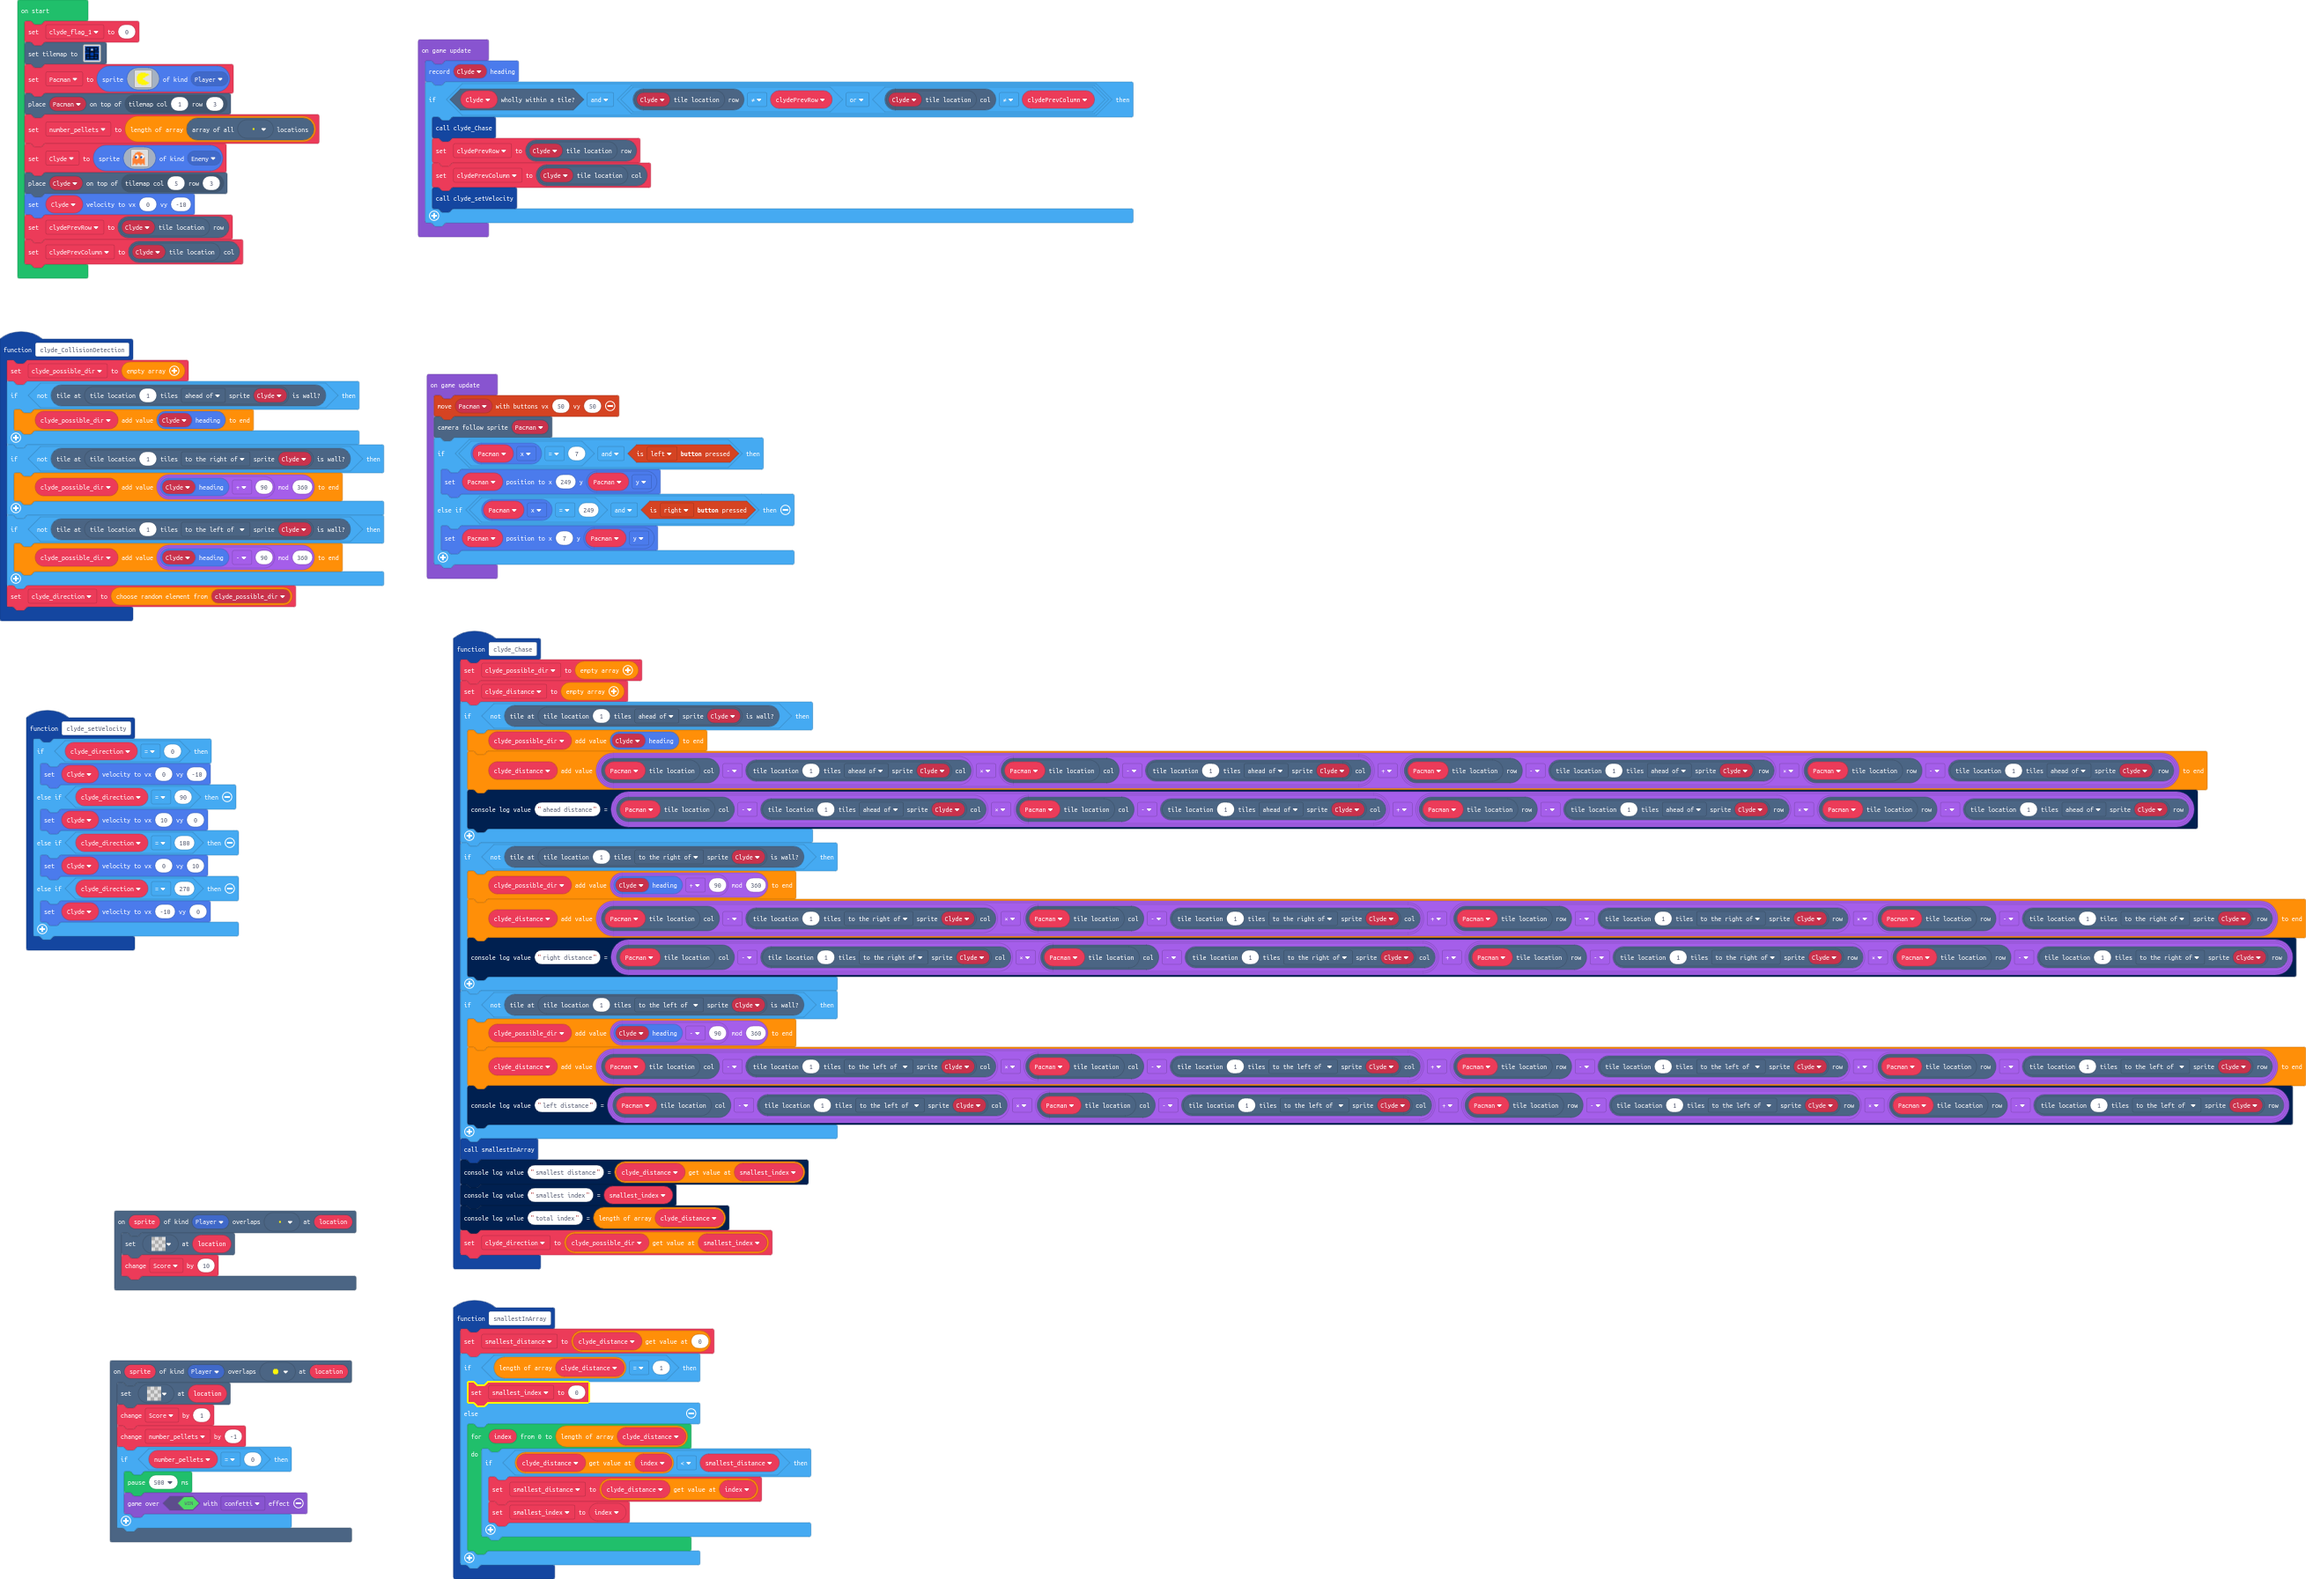
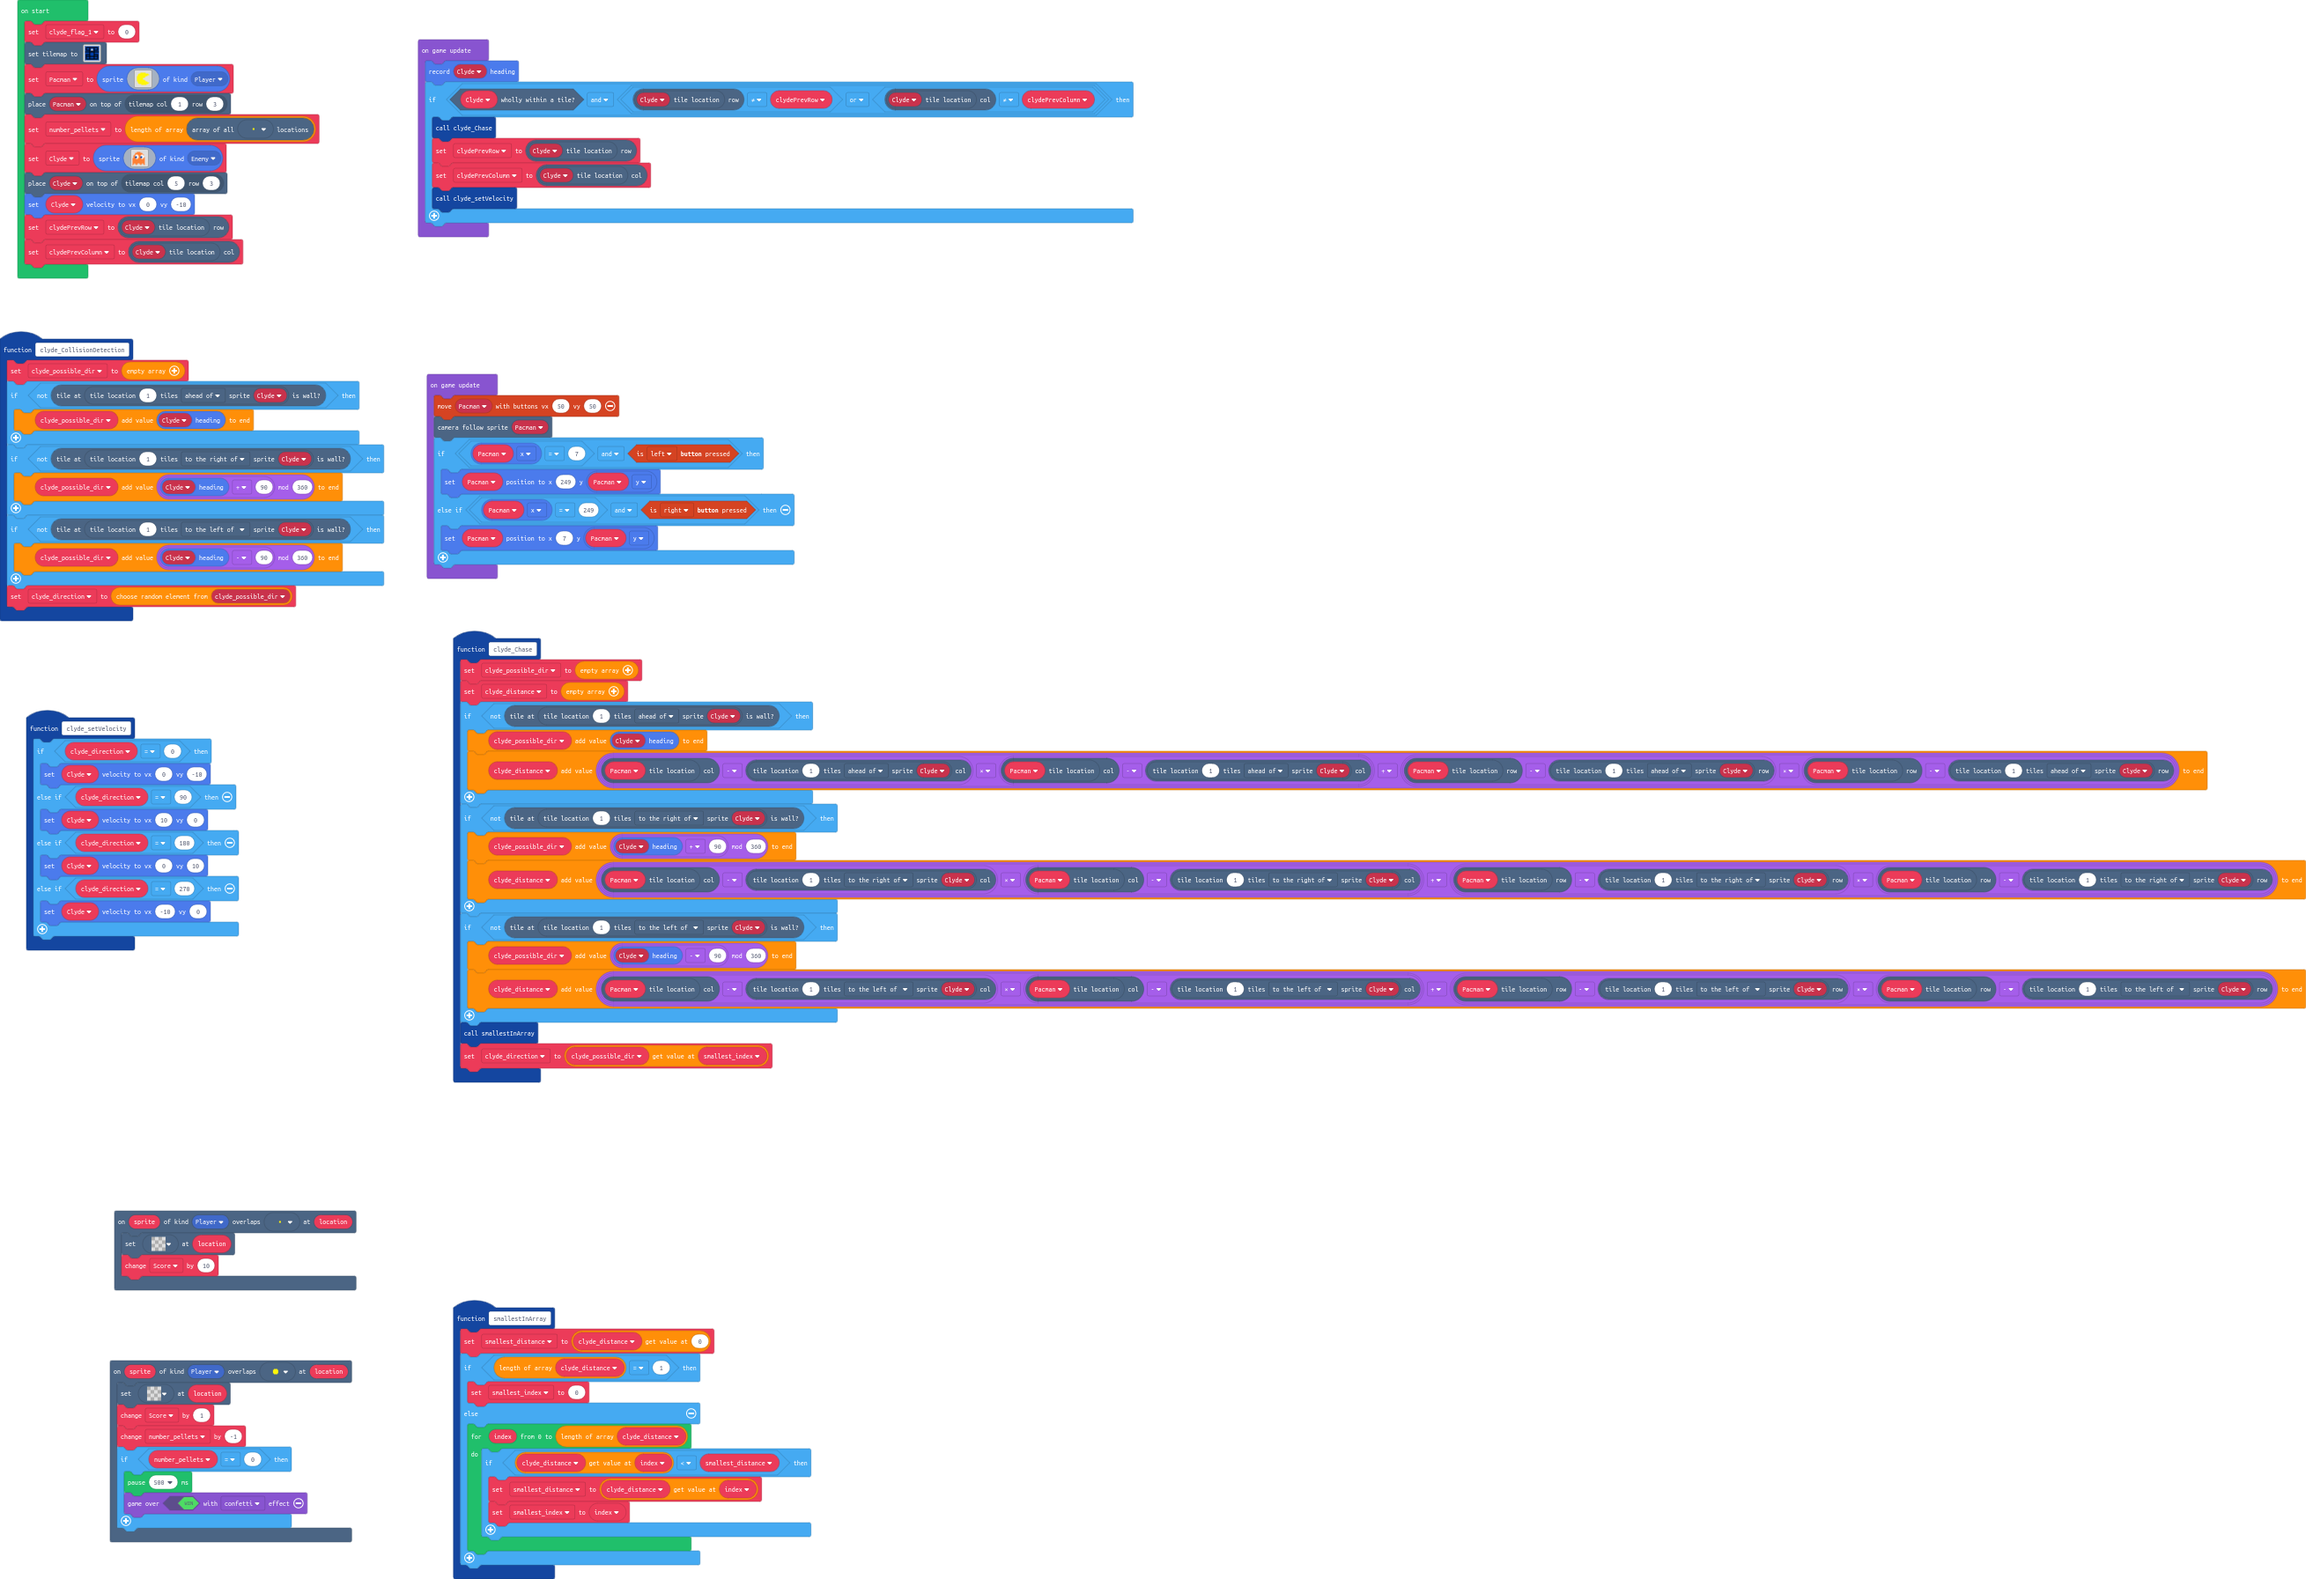
cleaning up code

Changed region(s): [[0.1856, 0.4997, 1.0, 0.812]]

diff --git a/main.ts b/main.ts
@@ -104,22 +104,16 @@ function clyde_Chase () {
     if (!(scene.isTileAWallAt(scene.getCoordinateNTilesAwayFromTile(1, TravelDirection.Ahead, Clyde)))) {
         clyde_possible_dir.push(sprites.heading(Clyde))
         clyde_distance.push((scene.getTileColCoordinate(scene.getTileLocationOfSprite(Pacman)) - scene.getTileColCoordinate(scene.getCoordinateNTilesAwayFromTile(1, TravelDirection.Ahead, Clyde))) * (scene.getTileColCoordinate(scene.getTileLocationOfSprite(Pacman)) - scene.getTileColCoordinate(scene.getCoordinateNTilesAwayFromTile(1, TravelDirection.Ahead, Clyde))) + (scene.getTileRowCoordinate(scene.getTileLocationOfSprite(Pacman)) - scene.getTileRowCoordinate(scene.getCoordinateNTilesAwayFromTile(1, TravelDirection.Ahead, Clyde))) * (scene.getTileRowCoordinate(scene.getTileLocationOfSprite(Pacman)) - scene.getTileRowCoordinate(scene.getCoordinateNTilesAwayFromTile(1, TravelDirection.Ahead, Clyde))))
-        console.logValue("ahead distance", (scene.getTileColCoordinate(scene.getTileLocationOfSprite(Pacman)) - scene.getTileColCoordinate(scene.getCoordinateNTilesAwayFromTile(1, TravelDirection.Ahead, Clyde))) * (scene.getTileColCoordinate(scene.getTileLocationOfSprite(Pacman)) - scene.getTileColCoordinate(scene.getCoordinateNTilesAwayFromTile(1, TravelDirection.Ahead, Clyde))) + (scene.getTileRowCoordinate(scene.getTileLocationOfSprite(Pacman)) - scene.getTileRowCoordinate(scene.getCoordinateNTilesAwayFromTile(1, TravelDirection.Ahead, Clyde))) * (scene.getTileRowCoordinate(scene.getTileLocationOfSprite(Pacman)) - scene.getTileRowCoordinate(scene.getCoordinateNTilesAwayFromTile(1, TravelDirection.Ahead, Clyde))))
     }
     if (!(scene.isTileAWallAt(scene.getCoordinateNTilesAwayFromTile(1, TravelDirection.Right, Clyde)))) {
         clyde_possible_dir.push(Math.mod(sprites.heading(Clyde) + 90, 360))
         clyde_distance.push((scene.getTileColCoordinate(scene.getTileLocationOfSprite(Pacman)) - scene.getTileColCoordinate(scene.getCoordinateNTilesAwayFromTile(1, TravelDirection.Right, Clyde))) * (scene.getTileColCoordinate(scene.getTileLocationOfSprite(Pacman)) - scene.getTileColCoordinate(scene.getCoordinateNTilesAwayFromTile(1, TravelDirection.Right, Clyde))) + (scene.getTileRowCoordinate(scene.getTileLocationOfSprite(Pacman)) - scene.getTileRowCoordinate(scene.getCoordinateNTilesAwayFromTile(1, TravelDirection.Right, Clyde))) * (scene.getTileRowCoordinate(scene.getTileLocationOfSprite(Pacman)) - scene.getTileRowCoordinate(scene.getCoordinateNTilesAwayFromTile(1, TravelDirection.Right, Clyde))))
-        console.logValue("right distance", (scene.getTileColCoordinate(scene.getTileLocationOfSprite(Pacman)) - scene.getTileColCoordinate(scene.getCoordinateNTilesAwayFromTile(1, TravelDirection.Right, Clyde))) * (scene.getTileColCoordinate(scene.getTileLocationOfSprite(Pacman)) - scene.getTileColCoordinate(scene.getCoordinateNTilesAwayFromTile(1, TravelDirection.Right, Clyde))) + (scene.getTileRowCoordinate(scene.getTileLocationOfSprite(Pacman)) - scene.getTileRowCoordinate(scene.getCoordinateNTilesAwayFromTile(1, TravelDirection.Right, Clyde))) * (scene.getTileRowCoordinate(scene.getTileLocationOfSprite(Pacman)) - scene.getTileRowCoordinate(scene.getCoordinateNTilesAwayFromTile(1, TravelDirection.Right, Clyde))))
     }
     if (!(scene.isTileAWallAt(scene.getCoordinateNTilesAwayFromTile(1, TravelDirection.Left, Clyde)))) {
         clyde_possible_dir.push(Math.mod(sprites.heading(Clyde) - 90, 360))
         clyde_distance.push((scene.getTileColCoordinate(scene.getTileLocationOfSprite(Pacman)) - scene.getTileColCoordinate(scene.getCoordinateNTilesAwayFromTile(1, TravelDirection.Left, Clyde))) * (scene.getTileColCoordinate(scene.getTileLocationOfSprite(Pacman)) - scene.getTileColCoordinate(scene.getCoordinateNTilesAwayFromTile(1, TravelDirection.Left, Clyde))) + (scene.getTileRowCoordinate(scene.getTileLocationOfSprite(Pacman)) - scene.getTileRowCoordinate(scene.getCoordinateNTilesAwayFromTile(1, TravelDirection.Left, Clyde))) * (scene.getTileRowCoordinate(scene.getTileLocationOfSprite(Pacman)) - scene.getTileRowCoordinate(scene.getCoordinateNTilesAwayFromTile(1, TravelDirection.Left, Clyde))))
-        console.logValue("left distance", (scene.getTileColCoordinate(scene.getTileLocationOfSprite(Pacman)) - scene.getTileColCoordinate(scene.getCoordinateNTilesAwayFromTile(1, TravelDirection.Left, Clyde))) * (scene.getTileColCoordinate(scene.getTileLocationOfSprite(Pacman)) - scene.getTileColCoordinate(scene.getCoordinateNTilesAwayFromTile(1, TravelDirection.Left, Clyde))) + (scene.getTileRowCoordinate(scene.getTileLocationOfSprite(Pacman)) - scene.getTileRowCoordinate(scene.getCoordinateNTilesAwayFromTile(1, TravelDirection.Left, Clyde))) * (scene.getTileRowCoordinate(scene.getTileLocationOfSprite(Pacman)) - scene.getTileRowCoordinate(scene.getCoordinateNTilesAwayFromTile(1, TravelDirection.Left, Clyde))))
     }
     smallestInArray()
-    console.logValue("smallest distance", clyde_distance[smallest_index])
-    console.logValue("smallest index", smallest_index)
-    console.logValue("total index", clyde_distance.length)
     clyde_direction = clyde_possible_dir[smallest_index]
 }
 scene.onOverlapTile(SpriteKind.Player, myTiles.tile3, function (sprite, location) {
@@ -174,8 +168,8 @@ function smallestInArray () {
 }
 let smallest_distance = 0
 let Score = 0
-let clyde_direction = 0
 let smallest_index = 0
+let clyde_direction = 0
 let clyde_distance: number[] = []
 let clyde_possible_dir: number[] = []
 let Clyde: Sprite = null
